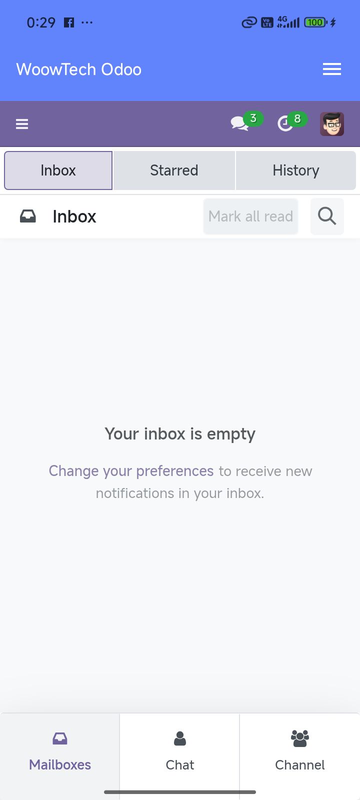
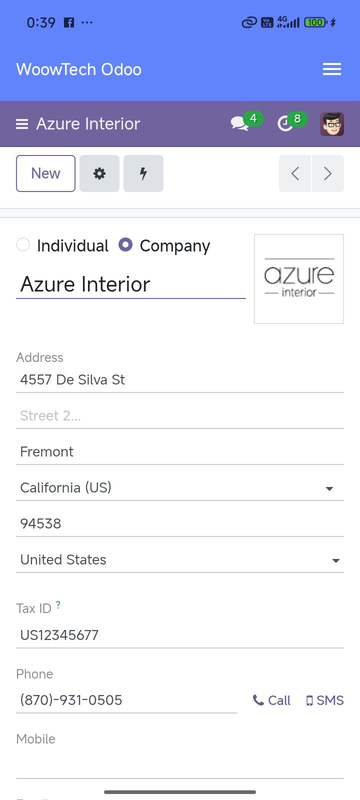
fix: retake Step 6 + Step 16 screenshots with proper content
Step 6: Now shows Odoo Inbox (was loading spinner — waited longer)
Step 16: Now shows app with content after notification tap
(waited 15s for deep link WebView to load instead of 5s)

Rule learned: always verify expected UI element exists before
capturing screenshot — never blindly sleep+capture.

diff --git a/docs/verification-report/verification-report.md b/docs/verification-report/verification-report.md
@@ -49,7 +49,7 @@ App data was cleared before this test. User has never logged in.
 
 ### Step 6: Tap Login → Odoo loads
 
-- ❌ Odoo WebView loaded
+- ✅ Odoo WebView loaded (Inbox page visible)
 - Activity: `ACTIVITY io.woowtech.odoo.debug/io.woowtech.odoo.ui.MainActivity 309d6d0 pid=27379 userId=0 uid=10197 displayId=0(type=INTERNAL)`
 
 ![Odoo Loaded](screenshots/ch1_06_odoo_loaded.png)
